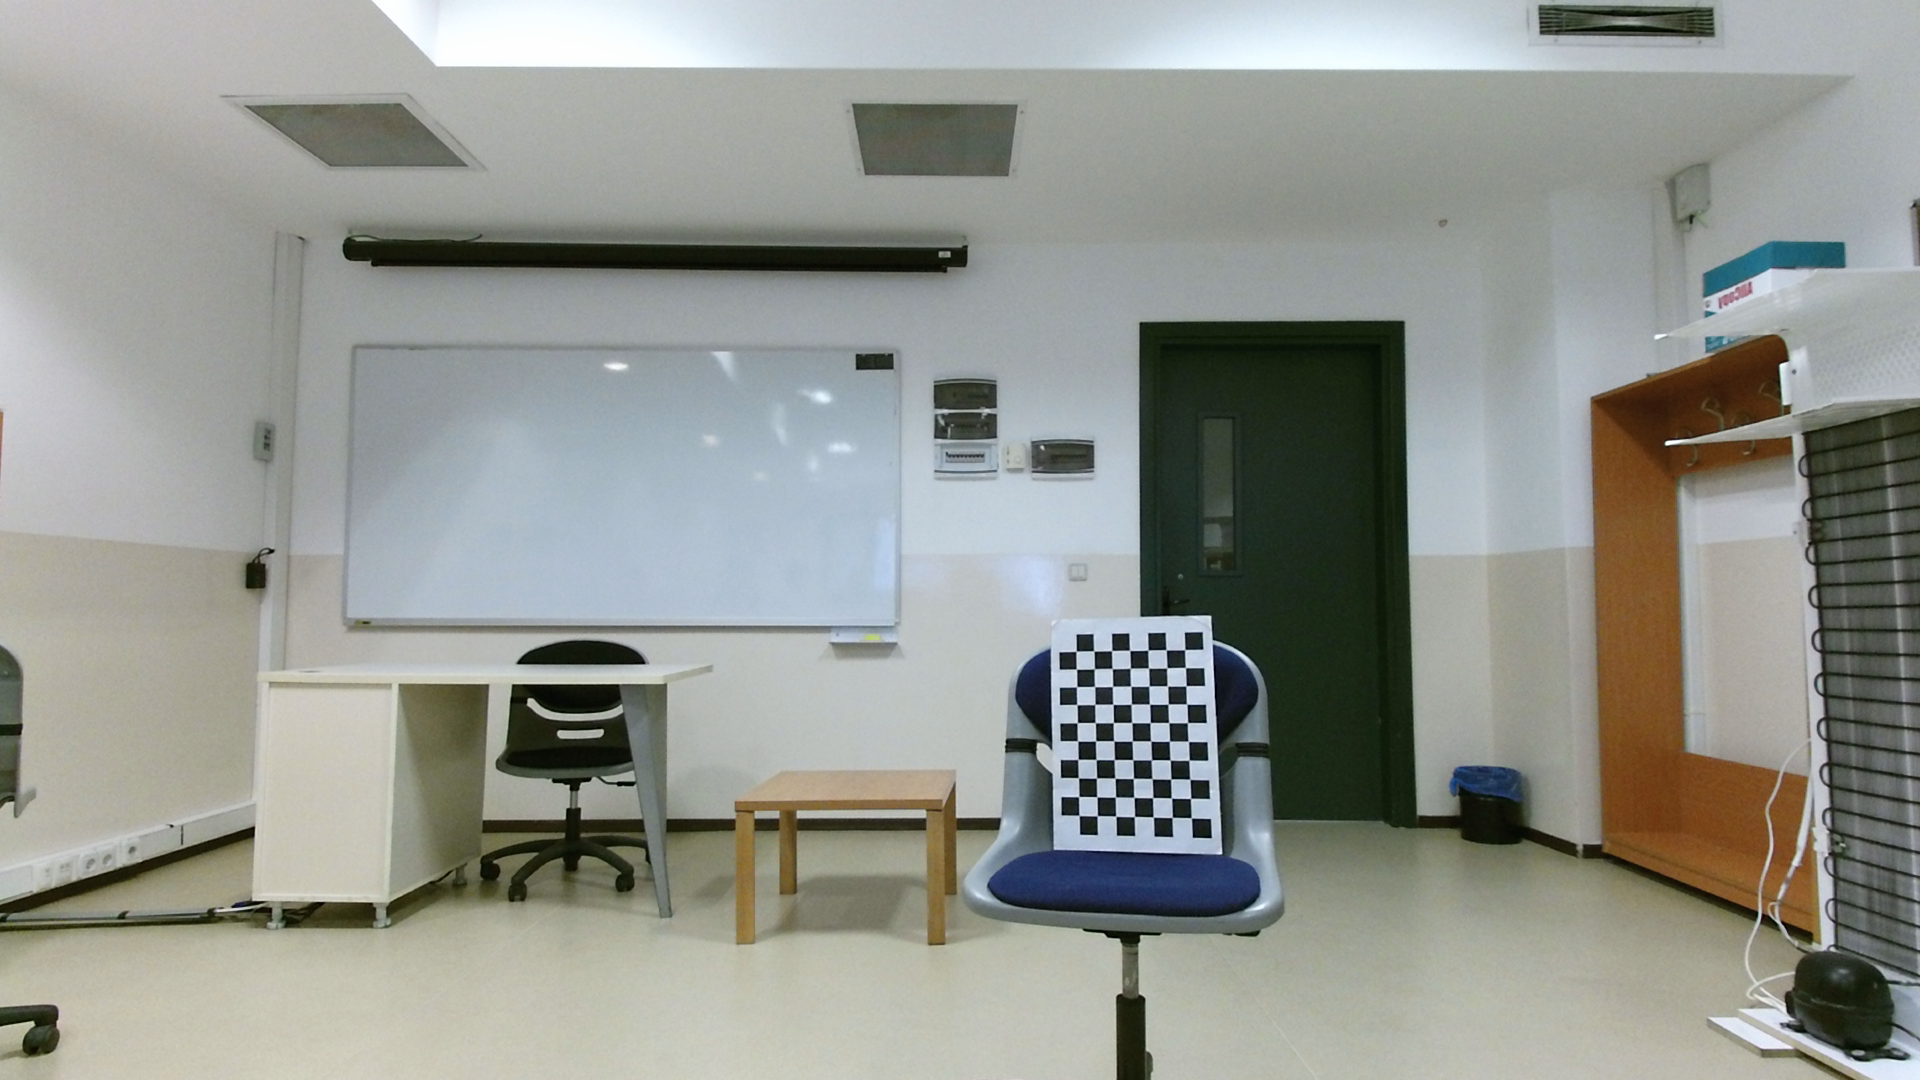
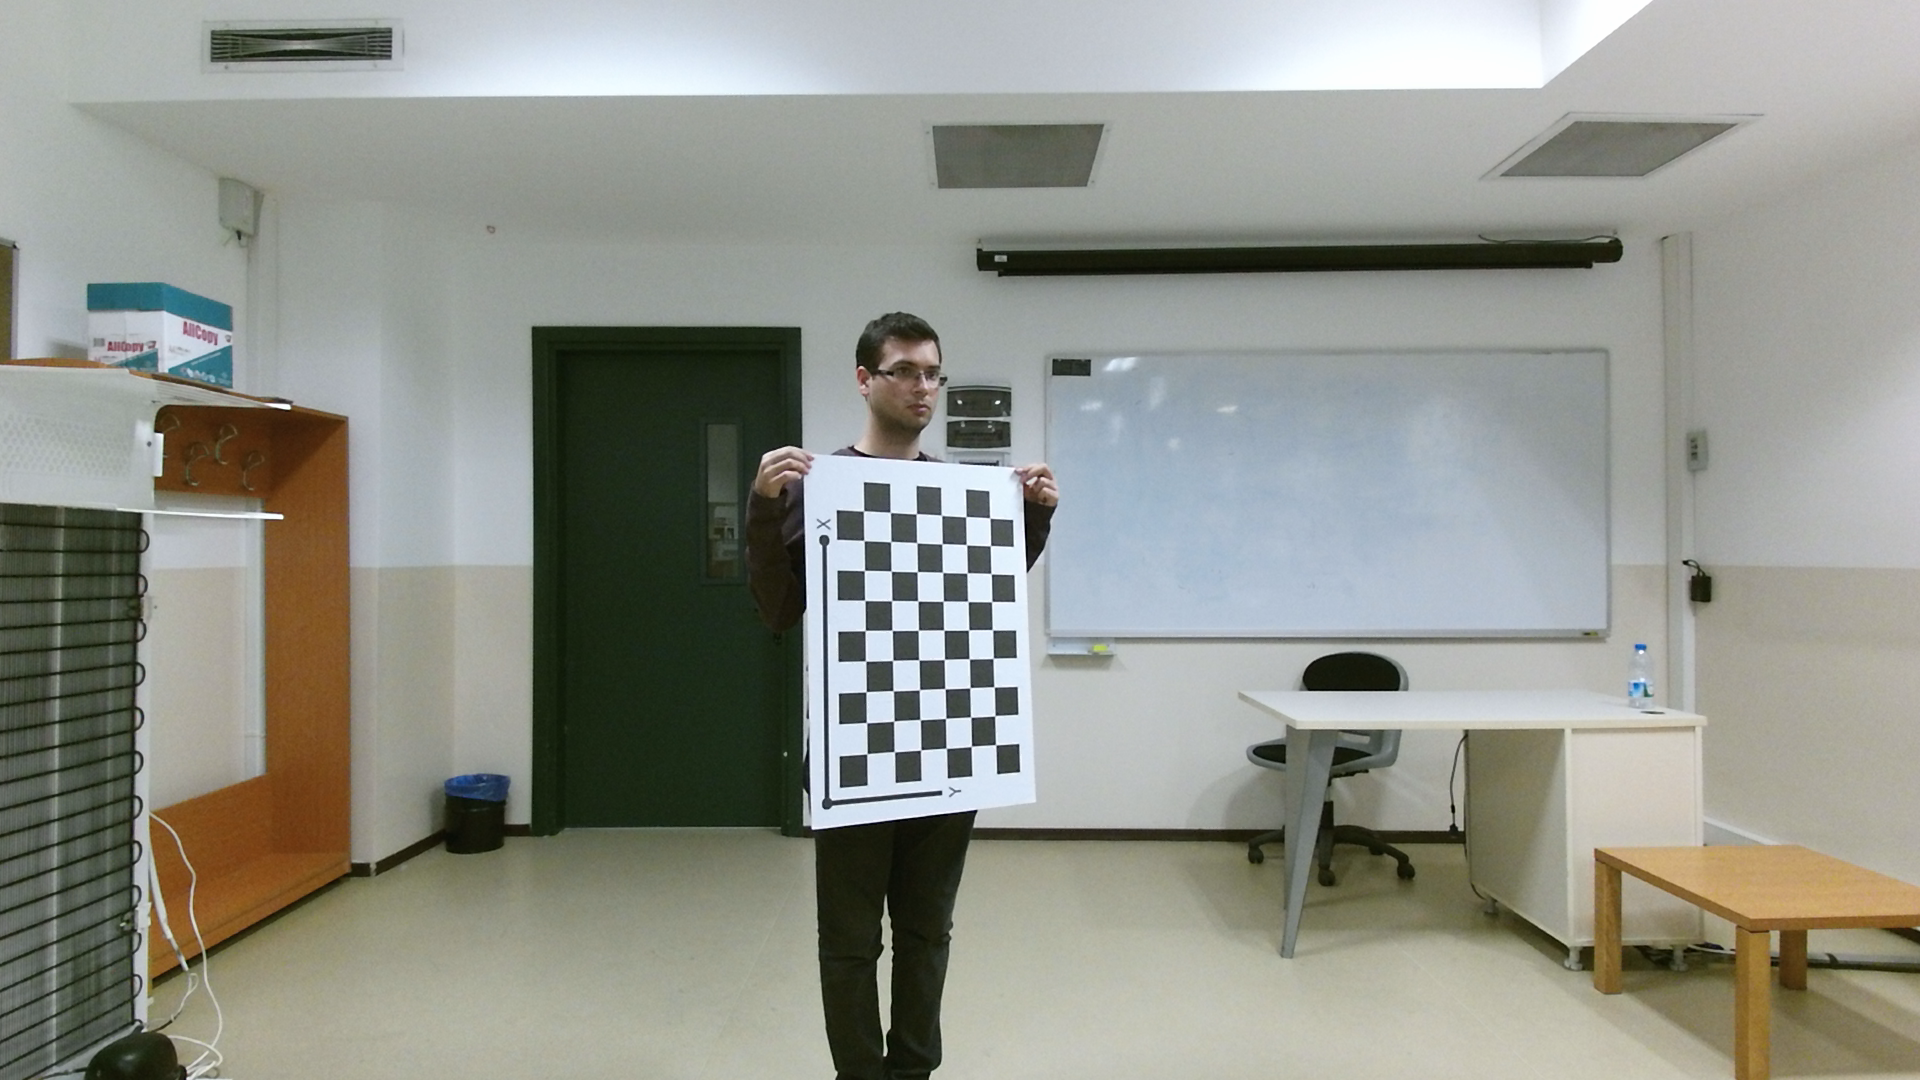
Calibration
Worked on

diff --git a/Code/calibration.m b/Code/calibration.m
@@ -10,8 +10,10 @@ start([rgbImage depthImage]);
 [imgColor, ts_color, metaData_Color] = getdata(rgbImage);
 [imgDepth, ts_depth, metaData_Depth] = getdata(depthImage);
 
-imwrite(uint8(imgColor(:, :, 1:3)), 'rgb_1_10.png');
+image_sym = fliplr(imgColor(:, :, 1:3));
+
+imwrite(uint8(image_sym), 'rgb_1_22.png');
 
 %% Calibration
 
-stereoCameraCalibrator('folder1','folder2',33,'millimeters');
+stereoCameraCalibrator('folder1','folder2',58,'millimeters');
